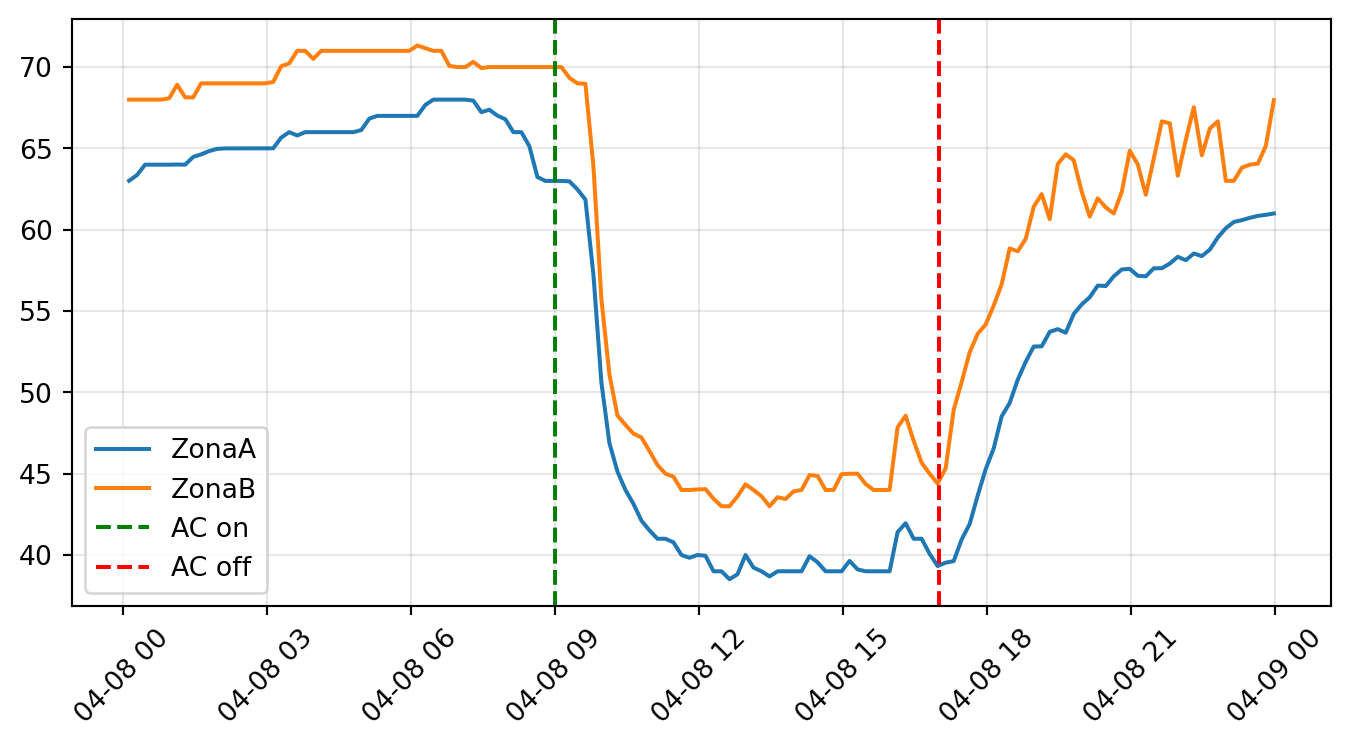
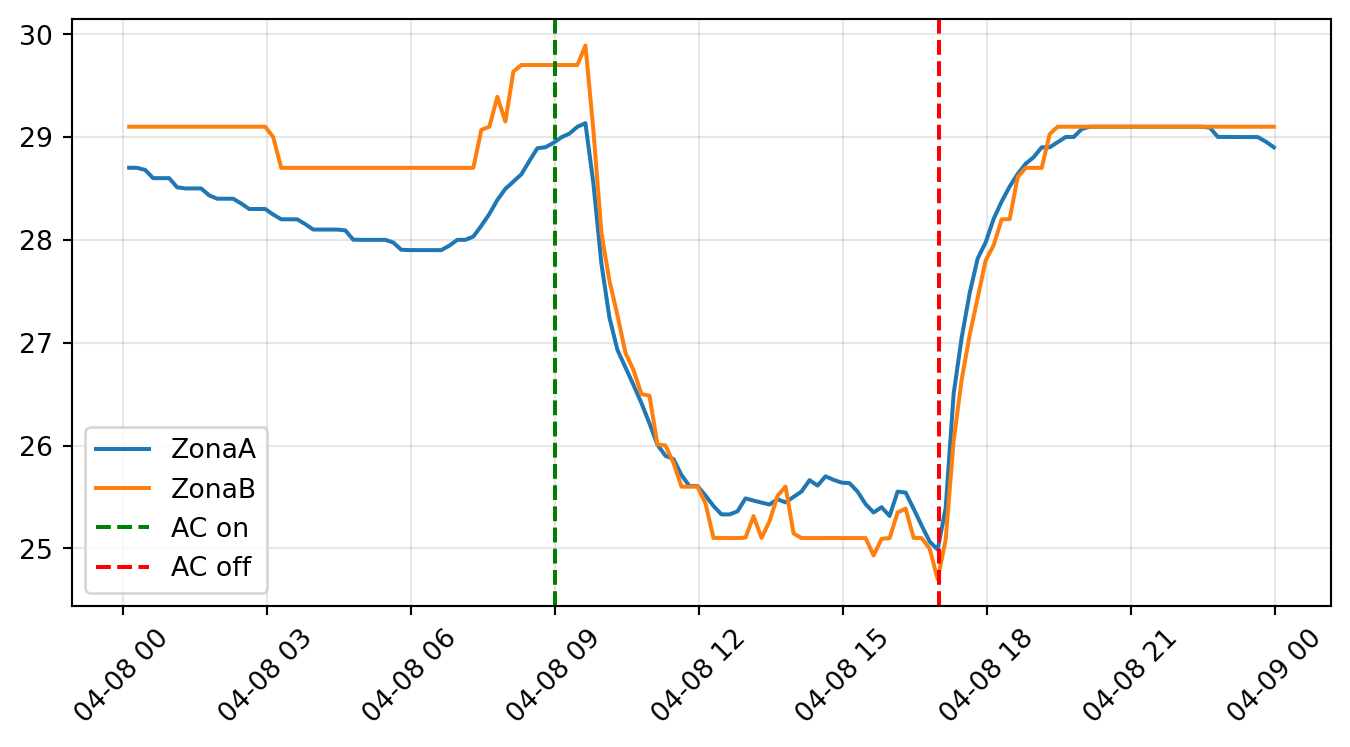
update Activity chart

diff --git a/docs/index.html b/docs/index.html
@@ -117,7 +117,7 @@ ul.task-list li input[type="checkbox"] {
 
 <div class="bslib-grid-item html-fill-item tab-content bslib-grid" data-layout="fill" style="display: grid; grid-template-rows: minmax(3em, 1fr); grid-auto-columns: minmax(0, 1fr);">
 <div id="activity" class="dashboard-page tab-pane show active html-fill-item html-fill-container" data-orientation="rows" aria-labelledby="tab-activity">
-<div class="html-fill-item html-fill-container bslib-grid" style="display: grid; grid-template-rows: minmax(3em, 1fr); grid-auto-columns: minmax(0, 1fr);">
+<div class="html-fill-item html-fill-container bslib-grid" style="display: grid; grid-template-rows: minmax(3em, 1fr) minmax(3em, 1fr); grid-auto-columns: minmax(0, 1fr);">
 <div class="card cell html-fill-item html-fill-container bslib-card" data-title="Aktivitas Mahasiswa (jam)" data-bslib-card-init="" data-require-bs-caller="card()" data-full-screen="false">
 <div class="card-header"><div class="card-title"><span style="display: inline">
 Aktivitas Mahasiswa (jam)
@@ -133,9 +133,24 @@ Aktivitas Mahasiswa (jam)
         <svg xmlns="http://www.w3.org/2000/svg" viewbox="0 0 24 24" style="height:1em;width:1em;" aria-hidden="true" role="img"><path d="M20 5C20 4.4 19.6 4 19 4H13C12.4 4 12 3.6 12 3C12 2.4 12.4 2 13 2H21C21.6 2 22 2.4 22 3V11C22 11.6 21.6 12 21 12C20.4 12 20 11.6 20 11V5ZM4 19C4 19.6 4.4 20 5 20H11C11.6 20 12 20.4 12 21C12 21.6 11.6 22 11 22H3C2.4 22 2 21.6 2 21V13C2 12.4 2.4 12 3 12C3.6 12 4 12.4 4 13V19Z"></path></svg>
     </span>
 </bslib-tooltip><script data-bslib-card-init="">bslib.Card.initializeAllCards();</script></div>
+<div class="card cell html-fill-item html-fill-container bslib-card" data-title="Aktivitas Mahasiswa (tipe)" data-bslib-card-init="" data-require-bs-caller="card()" data-full-screen="false">
+<div class="card-header"><div class="card-title"><span style="display: inline">
+Aktivitas Mahasiswa (tipe)
+</span></div></div>
+<div class="card-body html-fill-item html-fill-container" style="padding: 0px;">
+<div class="cell-output cell-output-display html-fill-item html-fill-container">
+<img src="index_files/figure-html/cell-3-output-1.png" class="quarto-dashboard-img-contain">
 </div>
 </div>
-<div id="environment" class="dashboard-page tab-pane grid-skip html-fill-item html-fill-container" data-scrolling="false" data-orientation="columns" aria-labelledby="tab-environment">
+<bslib-tooltip placement="auto" bsoptions="[]" data-require-bs-version="5" data-require-bs-caller="tooltip()">
+    <template>Expand</template>
+    <span class="bslib-full-screen-enter badge rounded-pill">
+        <svg xmlns="http://www.w3.org/2000/svg" viewbox="0 0 24 24" style="height:1em;width:1em;" aria-hidden="true" role="img"><path d="M20 5C20 4.4 19.6 4 19 4H13C12.4 4 12 3.6 12 3C12 2.4 12.4 2 13 2H21C21.6 2 22 2.4 22 3V11C22 11.6 21.6 12 21 12C20.4 12 20 11.6 20 11V5ZM4 19C4 19.6 4.4 20 5 20H11C11.6 20 12 20.4 12 21C12 21.6 11.6 22 11 22H3C2.4 22 2 21.6 2 21V13C2 12.4 2.4 12 3 12C3.6 12 4 12.4 4 13V19Z"></path></svg>
+    </span>
+</bslib-tooltip><script data-bslib-card-init="">bslib.Card.initializeAllCards();</script></div>
+</div>
+</div>
+<div id="environment" class="dashboard-page tab-pane grid-skip html-fill-item html-fill-container" data-orientation="columns" data-scrolling="false" aria-labelledby="tab-environment">
 <div class="html-fill-item html-fill-container bslib-grid" style="display: grid; grid-template-columns: minmax(3em, 50fr) minmax(3em, 50fr);
 grid-auto-rows: minmax(0, 1fr);">
 <div class="html-fill-item html-fill-container bslib-grid" style="display: grid; grid-template-rows: minmax(3em, 1fr); grid-auto-columns: minmax(0, 1fr);">
@@ -145,7 +160,7 @@ Suhu Ruangan (°C)
 </span></div></div>
 <div class="card-body html-fill-item html-fill-container">
 <div class="cell-output cell-output-display html-fill-item html-fill-container">
-<img src="index_files/figure-html/cell-3-output-1.png" class="quarto-dashboard-img-contain">
+<img src="index_files/figure-html/cell-4-output-1.png" class="quarto-dashboard-img-contain">
 </div>
 </div>
 <bslib-tooltip placement="auto" bsoptions="[]" data-require-bs-version="5" data-require-bs-caller="tooltip()">
@@ -161,7 +176,7 @@ Kelembapan Ruangan (%)
 </span></div></div>
 <div class="card-body html-fill-item html-fill-container">
 <div class="cell-output cell-output-display html-fill-item html-fill-container">
-<img src="index_files/figure-html/cell-4-output-1.png" class="quarto-dashboard-img-contain">
+<img src="index_files/figure-html/cell-5-output-1.png" class="quarto-dashboard-img-contain">
 </div>
 </div>
 <bslib-tooltip placement="auto" bsoptions="[]" data-require-bs-version="5" data-require-bs-caller="tooltip()">
@@ -177,7 +192,7 @@ Kelembapan Ruangan (%)
 <div class="html-fill-item html-fill-container bslib-grid" style="display: grid; grid-template-rows: minmax(3em, max-content); grid-auto-columns: minmax(0, 1fr);">
 <div class="card cell html-fill-item html-fill-container bslib-card" data-fill="false" data-bslib-card-init="" data-require-bs-caller="card()" data-full-screen="false">
 <div class="card-body html-fill-item html-fill-container">
-<div class="cell-output cell-output-display cell-output-markdown html-fill-item html-fill-container" data-execution_count="4">
+<div class="cell-output cell-output-display cell-output-markdown html-fill-item html-fill-container" data-execution_count="10">
 <table class="caption-top table table-sm table-striped small">
 <thead>
 <tr class="header">